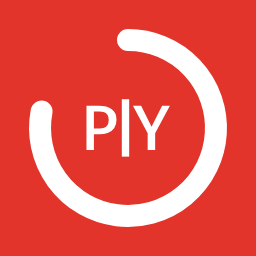
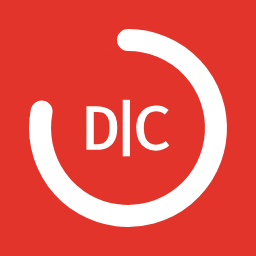
feat: rename to Dial It Countdown, with the D|C mark
The actions list, category, property inspector, diagnostics and release pages say Dial It
Countdown. The idle clock and every icon draw D|C from assets/dc-mark.svg, which replaces
piy-mark.svg. It is built by the P|Y recipe (motion/brand.mjs in
mergodon/piy-short-production: Fira Code Medium, +35% tracking, the cursor 15% past the
capitals); the same run on P and Y reproduces the old file byte for byte.

The brand stays Prompt It Yourself: author, `piy` theme, links and repo are unchanged. The
plugin UUID is unchanged, so installs update in place.

Changed region(s): [[0.3438, 0.375, 0.6875, 0.625]]

diff --git a/src/render.ts b/src/render.ts
@@ -134,7 +134,7 @@ export type RingState = {
 	dimmed: boolean;
 	palette: Palette;
 	/**
-	 * Allow the Prompt It Yourself mark in the middle of the ring.
+	 * Allow the D|C mark in the middle of the ring.
 	 *
 	 * Only ever *allow*: the mark is drawn on a clock that is sitting idle and nothing else. See
 	 * {@link centre} for why the state won the argument over the brand.
@@ -183,23 +183,24 @@ const PULSE_STROKE_RATIO = 0.22;
 const PULSE_OPACITY = 0.9;
 
 /**
- * The Prompt It Yourself mark, as published in the brand's own `piy-mark.svg`: a "P" and a "Y" with
- * a text cursor standing between them — the "I" that was typed and deleted. Kept as bare geometry so
- * it can be recoloured and scaled to sit inside the ring, rather than embedded as a fixed-colour
- * image. The brand fills every part in one colour, never two-tone.
+ * The Dial It Countdown mark, from `assets/dc-mark.svg`: a "D" and a "C" with a text cursor standing
+ * between them — the "I" that was typed and deleted. It is Prompt It Yourself's P|Y, built the same
+ * way from the same face, with the product's initials. Kept as bare geometry so it can be recoloured
+ * and scaled to sit inside the ring, rather than embedded as a fixed-colour image. The brand fills
+ * every part in one colour, never two-tone.
  */
 const MARK_PATHS = [
-	"M44.25 -47.25L44.25 -47.25Q44.25 -52 42.425 -54.85Q40.6 -57.7 37.275 -59Q33.95 -60.3 29.45 -60.3L29.45 -60.3L21.15 -60.3L21.15 -33.45L29.6 -33.45Q33.95 -33.45 37.25 -34.75Q40.55 -36.05 42.4 -39.05Q44.25 -42.05 44.25 -47.25ZM56.45 -47.35L56.45 -47.35Q56.45 -39.3 53.025 -34.3Q49.6 -29.3 43.5 -26.95Q37.4 -24.6 29.5 -24.6L29.5 -24.6L21.15 -24.6L21.15 0L9.55 0L9.55 -69L28.7 -69Q41.7 -69 49.075 -63.675Q56.45 -58.35 56.45 -47.35Z",
-	"M139.85 -69L116.85 -26.35L116.85 0L105.15 0L105.15 -26.25L82.15 -69L94.9 -69L111.25 -36.3L127.7 -69L139.85 -69Z"
+	"M43.9 -34.85L43.9 -34.85Q43.9 -43.1 42.275 -48.1Q40.65 -53.1 37.925 -55.7Q35.2 -58.3 31.875 -59.2Q28.55 -60.1 25.1 -60.1L25.1 -60.1L18.75 -60.1L18.75 -8.8L25.15 -8.8Q28.75 -8.8 32.1 -9.95Q35.45 -11.1 38.125 -13.95Q40.8 -16.8 42.35 -21.875Q43.9 -26.95 43.9 -34.85ZM56.1 -34.85L56.1 -34.85Q56.1 -26.3 54.275 -20.25Q52.45 -14.2 49.275 -10.225Q46.1 -6.25 41.975 -4.025Q37.85 -1.8 33.25 -0.9Q28.65 0 24.05 0L24.05 0L7.15 0L7.15 -69L22.9 -69Q29.2 -69 35.125 -67.65Q41.05 -66.3 45.775 -62.65Q50.5 -59 53.3 -52.3Q56.1 -45.6 56.1 -34.85Z",
+	"M116.8 -70.4L116.8 -70.4Q123.8 -70.4 128.625 -68.575Q133.45 -66.75 137.6 -63.35L137.6 -63.35L131.55 -56.15Q128.45 -58.75 124.9 -60Q121.35 -61.25 117.35 -61.25L117.35 -61.25Q112.2 -61.25 107.85 -58.65Q103.5 -56.05 100.875 -50.2Q98.25 -44.35 98.25 -34.6L98.25 -34.6Q98.25 -25.05 100.75 -19.2Q103.25 -13.35 107.6 -10.7Q111.95 -8.05 117.35 -8.05L117.35 -8.05Q122.9 -8.05 126.55 -9.875Q130.2 -11.7 133 -14L133 -14L138.6 -6.85Q135.15 -3.5 129.85 -1.075Q124.55 1.35 116.95 1.35L116.95 1.35Q108.2 1.35 101.225 -2.775Q94.25 -6.9 90.225 -14.9Q86.2 -22.9 86.2 -34.6L86.2 -34.6Q86.2 -46.2 90.35 -54.175Q94.5 -62.15 101.45 -66.275Q108.4 -70.4 116.8 -70.4Z"
 ] as const;
 
 /** The cursor between the letters, in the same coordinates as {@link MARK_PATHS}. */
 const MARK_CURSOR = { x: 64.75, y: -79.35, width: 11.5, height: 89.7 } as const;
 
 /** Extent of the mark, from the source artwork's viewBox: its ink box, letters and cursor. */
-const MARK_LEFT = 9.55;
+const MARK_LEFT = 7.15;
 const MARK_TOP = -79.35;
-const MARK_WIDTH = 130.3;
+const MARK_WIDTH = 131.45;
 const MARK_HEIGHT = 89.7;
 
 /** Width the mark is drawn at inside the ring, leaving well over the brand's 18% clear space. */

diff --git a/test/mark.test.ts b/test/mark.test.ts
@@ -1,7 +1,7 @@
 /**
  * Holds the mark drawn inside the ring to the brand's own artwork file.
  *
- * `assets/piy-mark.svg` is supplied artwork, not something transcribed here. `tools/make-icons.mjs`
+ * `assets/dc-mark.svg` is the brand's artwork, not something transcribed here. `tools/make-icons.mjs`
  * reads it directly, so the icons cannot drift from it — but `src/render.ts` cannot, because it is
  * bundled into the plugin and has no filesystem to read from at runtime. Its copy has to be a
  * literal, and a literal that promises in a comment to match another file is a promise nothing
@@ -16,12 +16,12 @@ import { fileURLToPath } from "node:url";
 
 import { renderRing, themeFor } from "../src/render.ts";
 
-const MARK_FILE = resolve(dirname(fileURLToPath(import.meta.url)), "../assets/piy-mark.svg");
+const MARK_FILE = resolve(dirname(fileURLToPath(import.meta.url)), "../assets/dc-mark.svg");
 
 /** The letter paths in the brand's mark, in the order it draws them. */
 function markPaths(): string[] {
 	const paths = [...readFileSync(MARK_FILE, "utf8").matchAll(/\sd="([^"]+)"/g)].map((match) => match[1]);
-	assert.equal(paths.length, 2, "the mark is a P and a Y; anything else means the file changed shape");
+	assert.equal(paths.length, 2, "the mark is a D and a C; anything else means the file changed shape");
 	return paths;
 }
 
@@ -50,10 +50,10 @@ describe("the mark drawn in the ring", () => {
 		for (const path of markPaths()) {
 			assert.ok(
 				drawn.includes(`d="${path}"`),
-				`src/render.ts no longer draws the mark from assets/piy-mark.svg — missing "${path}"`
+				`src/render.ts no longer draws the mark from assets/dc-mark.svg — missing "${path}"`
 			);
 		}
-		assert.ok(drawn.includes(markCursor()), "src/render.ts no longer draws the cursor from assets/piy-mark.svg");
+		assert.ok(drawn.includes(markCursor()), "src/render.ts no longer draws the cursor from assets/dc-mark.svg");
 	});
 
 	it("is only drawn when the logo is asked for", () => {

diff --git a/test/diagnostics.test.ts b/test/diagnostics.test.ts
@@ -37,7 +37,7 @@ describe("the diagnostics report", () => {
 		const report = collectDiagnostics(logDir({ "a.log": "WARN  something went wrong\n" }), PLUGIN_DIR);
 
 		// The real manifest, so this also proves the version is READ rather than defaulted to "unknown".
-		assert.match(report, /^Dial Countdown \d+\.\d+\.\d+\.\d+/m, `the shipped version must be named: ${report}`);
+		assert.match(report, /^Dial It Countdown \d+\.\d+\.\d+\.\d+/m, `the shipped version must be named: ${report}`);
 		assert.match(report, /\d+ cores/, "the machine's size matters for every per-control cost");
 		assert.match(report, /node v\d+/, "and Node's own version, not the kernel's");
 	});

diff --git a/test/render.test.ts b/test/render.test.ts
@@ -286,8 +286,8 @@ describe("the key face", () => {
 });
 
 describe("the centre of the ring", () => {
-	/** The start of the P in the mark, which nothing else in a frame draws. */
-	const MARK = "M44.25 -47.25";
+	/** The start of the D in the mark, which nothing else in a frame draws. */
+	const MARK = "M43.9 -34.85";
 	const middle = { ...base, remainingFraction: 0.5, logo: true };
 
 	/** Two bars is a pause; one square is done; a triangle is running. */

diff --git a/src/diagnostics.ts b/src/diagnostics.ts
@@ -134,7 +134,7 @@ export function collectDiagnostics(
 	host: HostInfo = {}
 ): string {
 	const lines: string[] = [];
-	lines.push(`Dial Countdown ${pluginVersion(pluginDir)}`);
+	lines.push(`Dial It Countdown ${pluginVersion(pluginDir)}`);
 	// `process.version` is Node's. `os.version()` is the KERNEL's, and on Linux it reads as a
 	// plausible Node version while being nothing of the sort — it printed `node #139-Ubuntu SMP` here.
 	lines.push(

diff --git a/com.matewishkey.dial-countdown-v2.sdPlugin/ui/dial-countdown.html b/com.matewishkey.dial-countdown-v2.sdPlugin/ui/dial-countdown.html
@@ -2,7 +2,7 @@
 <html>
 	<head>
 		<meta charset="utf-8" />
-		<title>Dial Countdown</title>
+		<title>Dial It Countdown</title>
 		<!--
 			sdpi-components is vendored rather than loaded from https://sdpi-components.dev (as the
 			official template does) so the inspector works offline and the shipped plugin has no

diff --git a/README.md b/README.md
@@ -1,4 +1,4 @@
-# Dial Countdown
+# Dial It Countdown
 
 [![MIT](https://img.shields.io/badge/licence-MIT-e2342b)](LICENSE)
 [![Stream Deck +](https://img.shields.io/badge/Stream%20Deck-%2B-101317)](https://www.elgato.com/stream-deck-plus)
@@ -16,7 +16,7 @@ Every dial and every key holds its own independent timer.
 
 ## Install
 
-Download the latest `.streamDeckPlugin` from [Releases](https://github.com/promptityourself/piy-dial-countdown/releases) and double-click it. Stream Deck installs it and adds **Dial Countdown** to the actions list; drag **Countdown** onto a dial, or **Countdown (Key)** onto a button.
+Download the latest `.streamDeckPlugin` from [Releases](https://github.com/promptityourself/piy-dial-countdown/releases) and double-click it. Stream Deck installs it and adds **Dial It Countdown** to the actions list; drag **Countdown** onto a dial, or **Countdown (Key)** onto a button.
 
 **Upgrading from a version before 2.0.0?** The plugin's identifier changed, so Stream Deck treats this as a different plugin: your existing buttons stop resolving and do not carry over. Remove the old one from Stream Deck's preferences first, then install this and place the actions again. [Why](CHANGELOG.md#200--2026-08-20).
 
@@ -168,7 +168,7 @@ The version lives in three places in three formats — `1.1.0`, `1.1.0.0`, `v1.1
 | `…sdPlugin/layouts/` | `ring.json` and `bar.json` — the two touchscreen layouts, both the plugin's own. |
 | `tools/mock-host.mjs` | A stand-in for the Stream Deck application. |
 | `test/inspector-harness.mjs` | Drives the property inspector in a real browser, so its inline JavaScript can be tested. |
-| `tools/make-icons.mjs` | Draws every icon from `assets/piy-mark.svg` — white for the app, red for the hardware. The plugin's own icon is the countdown ring, drawn by `renderRing`. Rasterises with headless Chromium; see [docs/releasing.md](docs/releasing.md). |
+| `tools/make-icons.mjs` | Draws every icon from `assets/dc-mark.svg` — white for the app, red for the hardware. The plugin's own icon is the countdown ring, drawn by `renderRing`. Rasterises with headless Chromium; see [docs/releasing.md](docs/releasing.md). |
 | `tools/check-version.mjs` | Holds `package.json`, `manifest.json` and the git tag to the same version. |
 | `tools/release.mjs` | The release, in one command and one order: check, build, pack, validate, demo, tag, push, publish, verify. Writes the page. |
 | `tools/publish-plan.mjs` | What publishing still has to do, and what it must refuse — pure, so every refusal is tested without publishing anything. |
@@ -176,7 +176,7 @@ The version lives in three places in three formats — `1.1.0`, `1.1.0.0`, `v1.1
 | `tools/package-id.mjs` | A reproducible id for a packaged plugin. `pack` stamps the packing time into every entry, so the file's own hash is not reproducible; this hashes the contents instead. |
 | `tsconfig.test.json` | The typecheck config: `src/`, `test/` **and** `tools/`. `tsconfig.json` is rollup's, and covers only what it bundles. |
 | `eslint.config.mjs` | Type-aware lint rules. Formatting is left entirely to Prettier, so the two cannot disagree. |
-| `assets/piy-mark.svg` | The brand's own mark, as supplied. The one source the artwork is generated from. |
+| `assets/dc-mark.svg` | The D\|C mark: Prompt It Yourself's P\|Y with the product's initials, built by the same recipe (`motion/brand.mjs` in `mergodon/piy-short-production`: Fira Code Medium, its glyph grid and cursor). The one source the artwork is generated from. |
 
 Constraints that are not obvious from the code, and that a tidy-up would otherwise undo.
 
@@ -196,7 +196,7 @@ Constraints that are not obvious from the code, and that a tidy-up would otherwi
 
 **No audio API exists in the SDK.** `src/sound.ts` hands a file to `afplay` or PowerShell's WPF `MediaPlayer` — chosen over `SoundPlayer`, which cannot set volume. It finds bundled sounds relative to `process.cwd()`, which is the `.sdPlugin` directory at runtime; `test/sound.test.ts` must therefore `chdir` there *before* importing it, hence its dynamic import.
 
-**The mark is read, not transcribed.** `tools/make-icons.mjs` parses `assets/piy-mark.svg`. `src/render.ts` holds the one unavoidable literal — it is bundled and has no filesystem — and `test/mark.test.ts` asserts the two match path-for-path.
+**The mark is read, not transcribed.** `tools/make-icons.mjs` parses `assets/dc-mark.svg`. `src/render.ts` holds the one unavoidable literal — it is bundled and has no filesystem — and `test/mark.test.ts` asserts the two match path-for-path.
 
 **Icons shown inside the Stream Deck application must be white** — monochromatic `#FFFFFF`, transparent background. A Marketplace submission was rejected on this. A key's `States[].Image` is the button face and keeps the brand red.
 

diff --git a/CHANGELOG.md b/CHANGELOG.md
@@ -21,7 +21,26 @@ anybody only in 4.1.0.
 
 ## [Unreleased]
 
+## [4.4.0] — 2026-10-11
+
+### Changed
+
+- **The plugin is now called Dial It Countdown, and its mark is D|C.** The actions list, the
+  category and the property inspector say *Dial It Countdown*. An idle clock shows the D|C mark in
+  the middle of its ring, and every icon is drawn from it. It is the P|Y mark of Prompt It
+  Yourself, the same letters' face and the same cursor, with the plugin's own initials. The brand
+  is still Prompt It Yourself: the author, the colour theme and the links do not change.
+
+  Nothing else moves. The plugin keeps its identifier, so every installed copy updates in place and
+  every configured dial and key keeps its settings.
+
 ### Internal
+
+- **The mark is `assets/dc-mark.svg`**, replacing `assets/piy-mark.svg`. It is built by the recipe
+  that builds P|Y, `motion/brand.mjs` in `mergodon/piy-short-production`: Fira Code Medium, its
+  glyph grid at +35% letter spacing, and the cursor 15% past the capitals. The same recipe run on
+  P and Y reproduces the old file byte for byte, so the two marks are siblings and not a redraw.
+  `render.test` now fingerprints the D.
 
 - **A release title keeps its capitals.** `npm run release` lowered the whole headline, so the 3.9.1
   and 3.10.0 titles said "stream deck" and 4.3.0's said "prompt it yourself". It now lowers only the
@@ -1356,7 +1375,8 @@ First stable release.
 - The manifest version had sat at `0.1.0.0` since the first release, so the Stream Deck application
   reported the same version whichever build was installed. It now tracks the release tag.
 
-[Unreleased]: https://github.com/promptityourself/piy-dial-countdown/compare/v4.3.0...HEAD
+[Unreleased]: https://github.com/promptityourself/piy-dial-countdown/compare/v4.4.0...HEAD
+[4.4.0]: https://github.com/promptityourself/piy-dial-countdown/releases/tag/v4.4.0
 [4.3.0]: https://github.com/promptityourself/piy-dial-countdown/releases/tag/v4.3.0
 [4.2.0]: https://github.com/promptityourself/piy-dial-countdown/releases/tag/v4.2.0
 [4.1.0]: https://github.com/promptityourself/piy-dial-countdown/releases/tag/v4.1.0

diff --git a/NOTICE.md b/NOTICE.md
@@ -2,9 +2,9 @@
 
 The plugin is [MIT licensed](LICENSE). Two things that licence does not cover:
 
-The Prompt It Yourself name, logo and brand colours are trademarks of Prompt It
-Yourself and are NOT covered by the MIT licence above. The mark itself is
-supplied artwork, kept at `assets/piy-mark.svg`; `tools/make-icons.mjs` reads it
+The Prompt It Yourself and Dial It Countdown names, the D|C mark and the brand
+colours are trademarks of Prompt It Yourself and are NOT covered by the MIT
+licence above. The mark is kept at `assets/dc-mark.svg`; `tools/make-icons.mjs` reads it
 and `src/render.ts` carries the same paths and cursor as a literal, because it is
 bundled and cannot read from disk at runtime.
 
